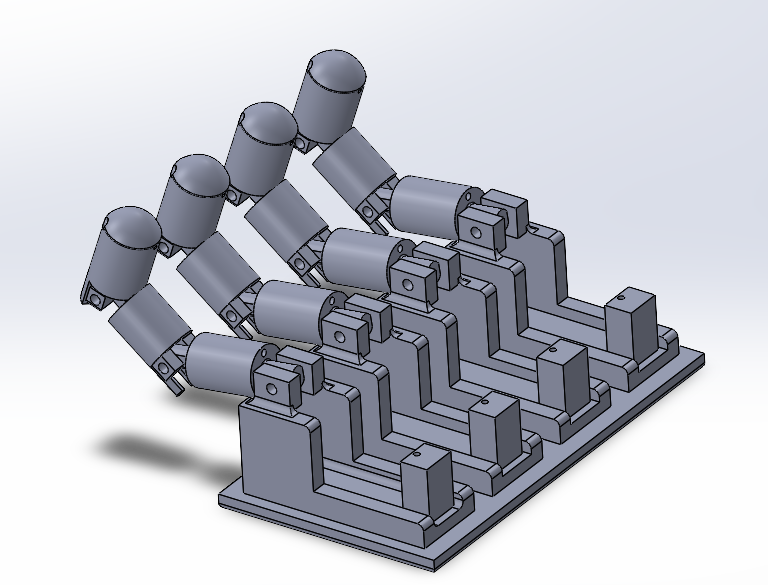
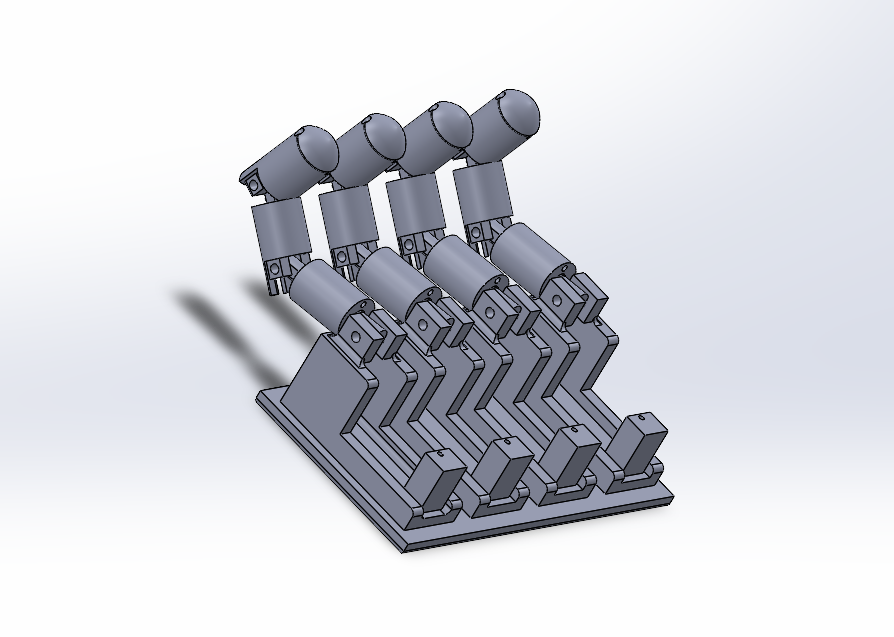
fixed images

diff --git a/Projects/EMG-Prosthetic-Hand/index.html b/Projects/EMG-Prosthetic-Hand/index.html
@@ -373,21 +373,18 @@
     <div class="electronics-images">
 
         <div class="electronics-image">
-            <img src="Images/Finger Wiring.png"
-                 alt="Servo Wiring Diagram">
-            <p class="diagram-caption">
-                Servo wiring diagram showing the shared power rail and Arduino PWM outputs.
-            </p>
-        </div>
+    <img class="diagram-img" src="Images/Finger Wiring.png">
+    <p class="diagram-caption">
+        Servo wiring diagram showing the shared power rail and Arduino PWM outputs.
+    </p>
+</div>
 
-        <div class="electronics-image">
-            <img src="Images/Electronics.jpg"
-                 alt="Breadboard Assembly">
-            <p class="diagram-caption">
-                Physical electronics prototype with Arduino, breadboard, and external power distribution.
-            </p>
-        </div>
-
+<div class="electronics-image">
+    <img class="prototype-img" src="Images/Electronics.jpg">
+    <p class="diagram-caption">
+        Physical electronics prototype with Arduino, breadboard, and external power distribution.
+    </p>
+</div>
     </div>
 
 </section>
@@ -423,8 +420,8 @@
 
         <div class="timeline-gallery">
 
-            <img src="Images/research.jpg" alt="">
             <img src="Images/Fingertip1.png" alt="">
+            <img src="Images/Finger.png" alt="">
             <img src="Images/Printed Finger.png" alt="">
 
         </div>

diff --git a/Projects/EMG-Prosthetic-Hand/style.css b/Projects/EMG-Prosthetic-Hand/style.css
@@ -414,7 +414,8 @@ section > h2{
 .media-card img,
 .media-card video{
     width:100%;
-    height:400px;
+    aspect-ratio:16/9;
+    object-fit:cover;
     display:block;
     border-radius:14px;
 }
@@ -496,10 +497,19 @@ section > h2{
 .electronics-image img{
     width:100%;
     height:300px;
-    object-fit:contain;
-    background:white;
     border-radius:16px;
     display:block;
+}
+
+/* Wiring diagram */
+.diagram-img{
+    object-fit:contain;
+    background:white;
+}
+
+/* Prototype photo */
+.prototype-img{
+    object-fit:cover;
 }
 
 .diagram-caption{